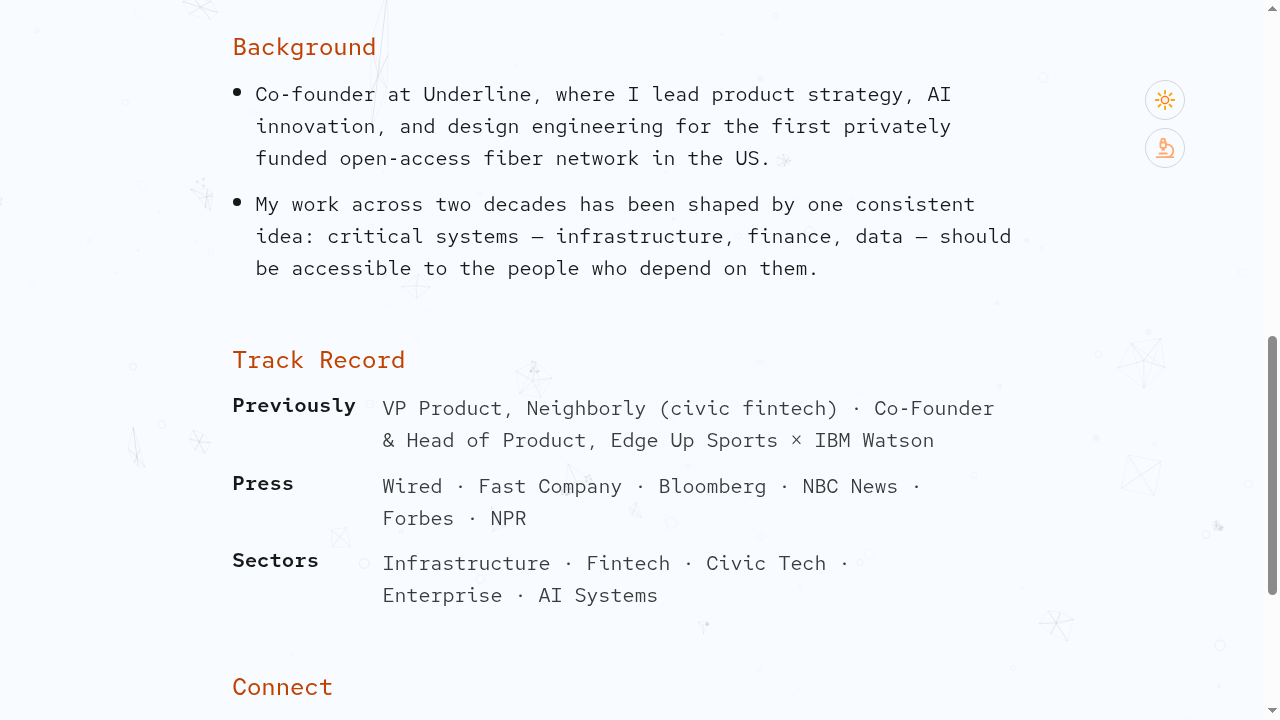
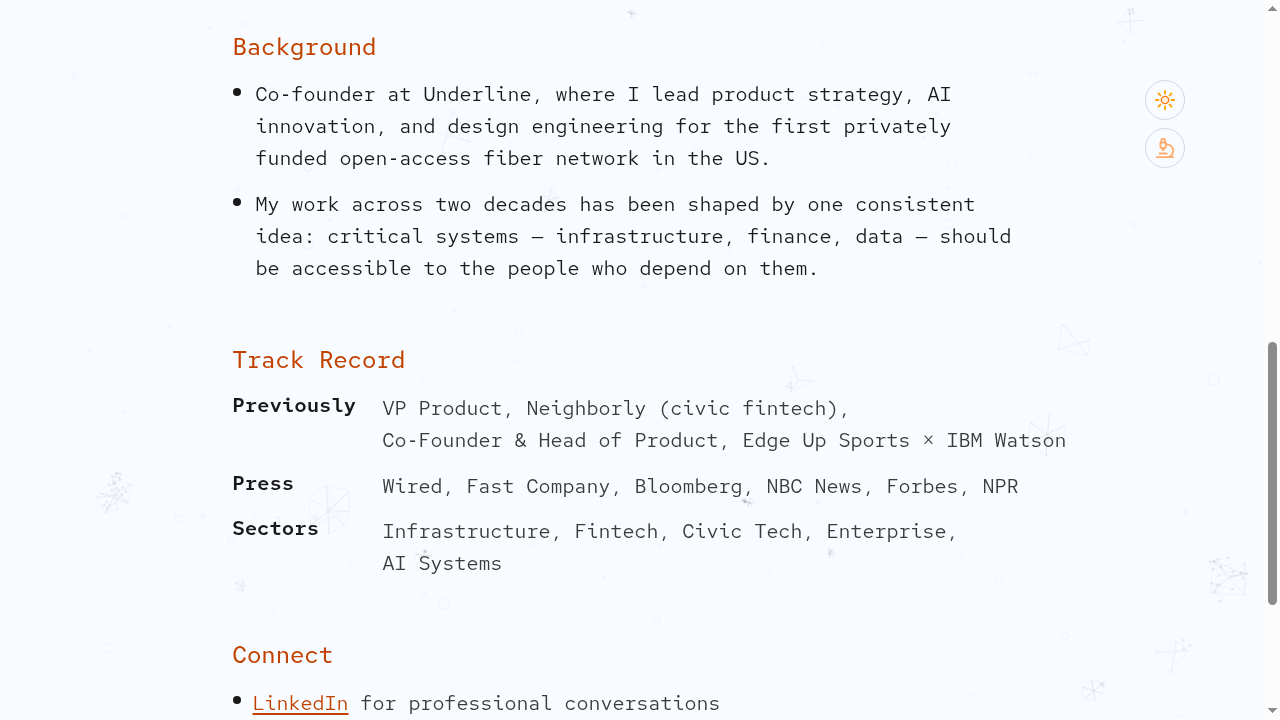
Task #30: Replace middot separators in Track Record with structured item lists
The middot (·) characters separating items in the Track Record
section were nearly invisible in the monospace font, making values
look like loosely spaced words rather than distinct items.

Changes:
- content.ts: Changed ProofRow interface from { label, value: string }
  to { label, items: string[] }. Each row now contains discrete items:
  - Previously: 2 items (one per role/company)
  - Press: 6 individual outlet names
  - Sectors: 5 individual sector names
  Non-breaking spaces and hyphens preserved for mobile line-break
  control.

- ProofStrip.svelte: Updated rendering from plain text to a semantic
  <ul>/<li> list with:
  - CSS ::after pseudo-element generating ", " between items
  - flex-wrap layout for natural inline flow with wrapping
  - text-wrap: nowrap on individual items so names don't break
  - list-style: none to suppress default bullets
  - Responsive: stacked on mobile, side-by-side on 640px+

Tested at 375px mobile, 1280px desktop, in both light and dark mode.
No changes to other sections. No deviations from task plan.

diff --git a/portfolio/src/components/ProofStrip.svelte b/portfolio/src/components/ProofStrip.svelte
@@ -11,7 +11,13 @@
     {#each rows as row}
       <div class="row">
         <dt class="label">{row.label}</dt>
-        <dd class="value">{row.value}</dd>
+        <dd class="value">
+          <ul class="items">
+            {#each row.items as item}
+              <li class="item">{item}</li>
+            {/each}
+          </ul>
+        </dd>
       </div>
     {/each}
   </dl>
@@ -57,7 +63,21 @@
     color: var(--semantic-caption);
     line-height: 1.6;
     transition: color var(--transition-theme);
-    text-wrap: pretty;
+  }
+
+  .items {
+    list-style: none;
+    display: flex;
+    flex-wrap: wrap;
+    gap: 0;
+  }
+
+  .item {
+    text-wrap: nowrap;
+  }
+
+  .item:not(:last-child)::after {
+    content: ",\00a0";
   }
 
   @media (min-width: 640px) {

diff --git a/portfolio/src/lib/content.ts b/portfolio/src/lib/content.ts
@@ -6,7 +6,7 @@ export interface ConnectItem {
 
 export interface ProofRow {
   label: string;
-  value: string;
+  items: string[];
 }
 
 export const siteContent = {
@@ -39,9 +39,16 @@ export const siteContent = {
   proofStrip: {
     heading: "Track Record",
     rows: [
-      { label: "Previously", value: "VP\u00A0Product, Neighborly (civic fintech) · Co\u2011Founder &\u00A0Head\u00A0of\u00A0Product, Edge\u00A0Up\u00A0Sports ×\u00A0IBM\u00A0Watson" },
-      { label: "Press", value: "Wired · Fast\u00A0Company · Bloomberg · NBC\u00A0News · Forbes ·\u00A0NPR" },
-      { label: "Sectors", value: "Infrastructure · Fintech · Civic\u00A0Tech · Enterprise ·\u00A0AI\u00A0Systems" }
+      { label: "Previously", items: [
+        "VP\u00A0Product, Neighborly (civic\u00A0fintech)",
+        "Co\u2011Founder &\u00A0Head\u00A0of\u00A0Product, Edge\u00A0Up\u00A0Sports \u00D7\u00A0IBM\u00A0Watson"
+      ]},
+      { label: "Press", items: [
+        "Wired", "Fast\u00A0Company", "Bloomberg", "NBC\u00A0News", "Forbes", "NPR"
+      ]},
+      { label: "Sectors", items: [
+        "Infrastructure", "Fintech", "Civic\u00A0Tech", "Enterprise", "AI\u00A0Systems"
+      ]}
     ] as ProofRow[]
   },
 